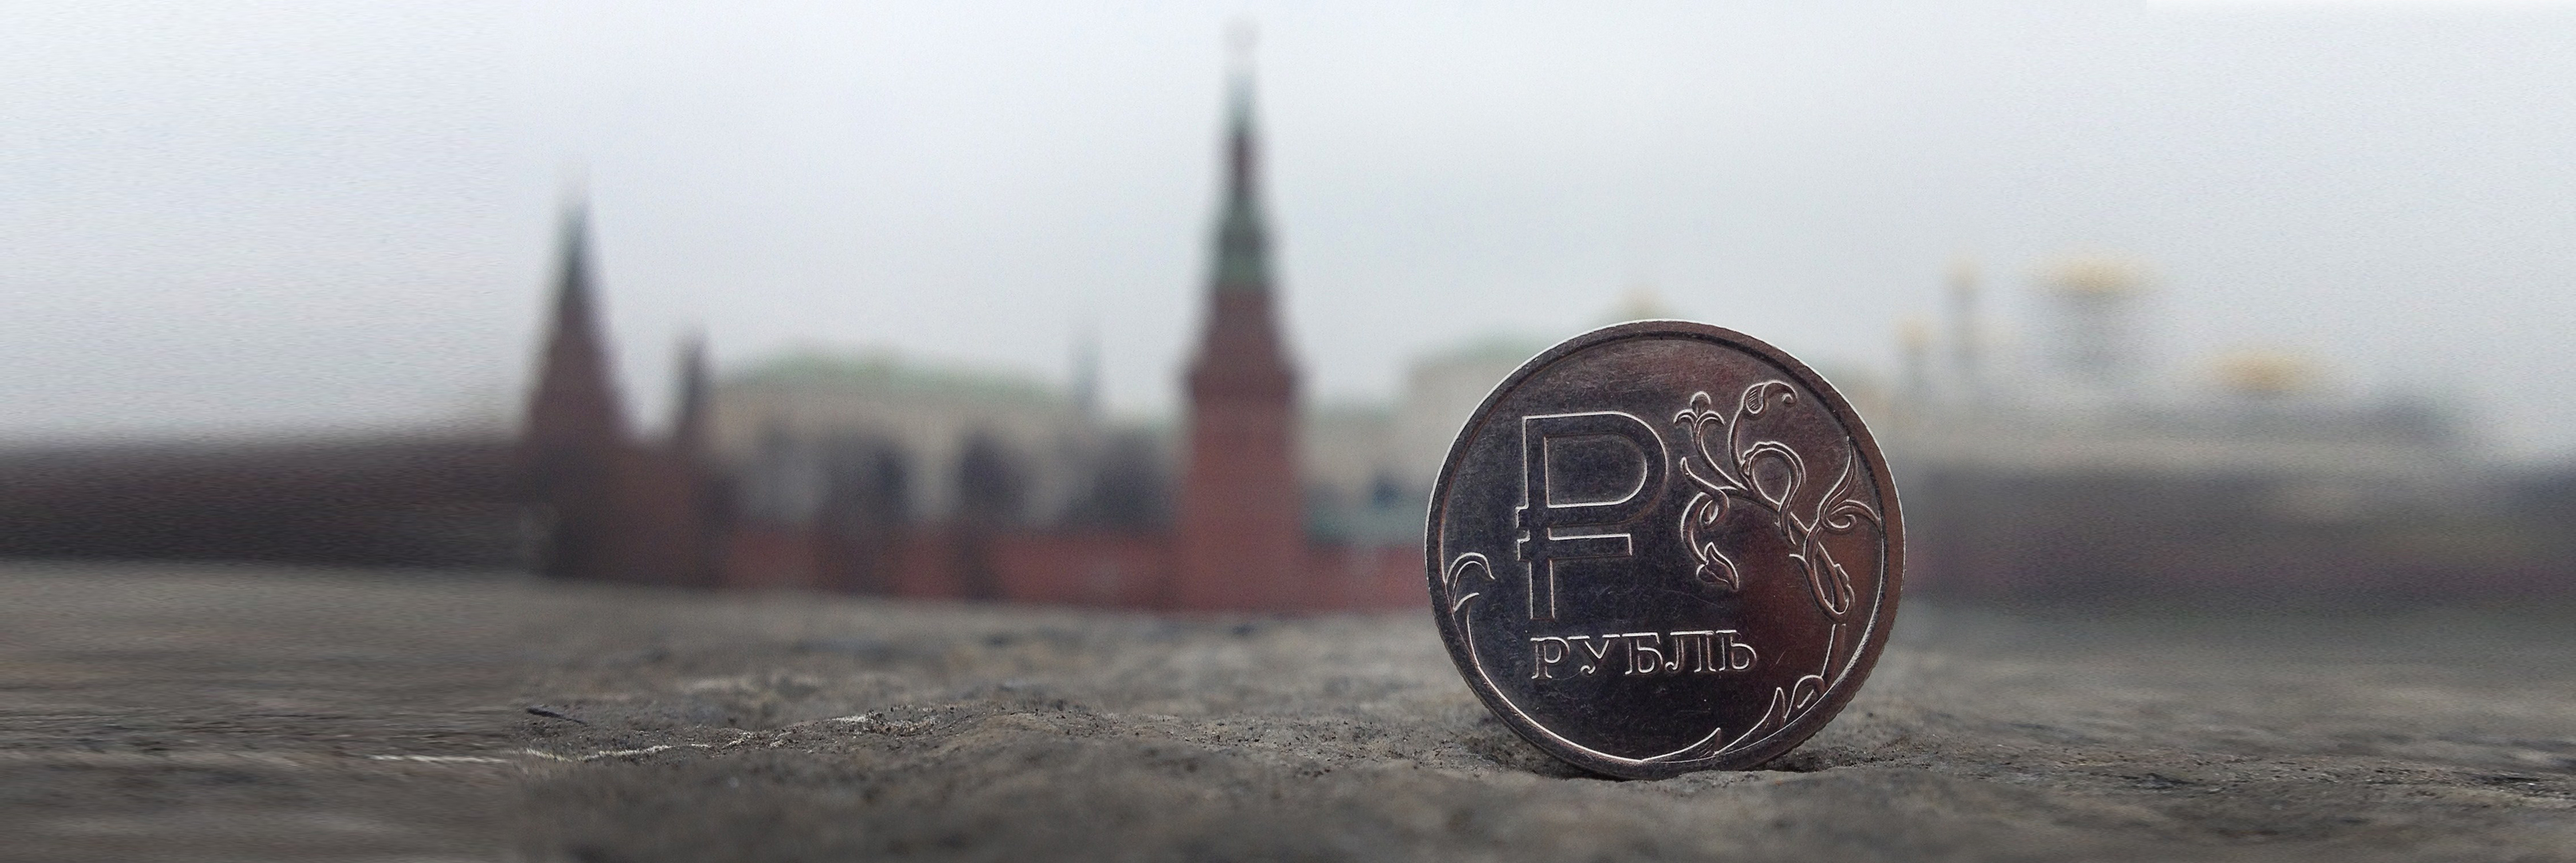
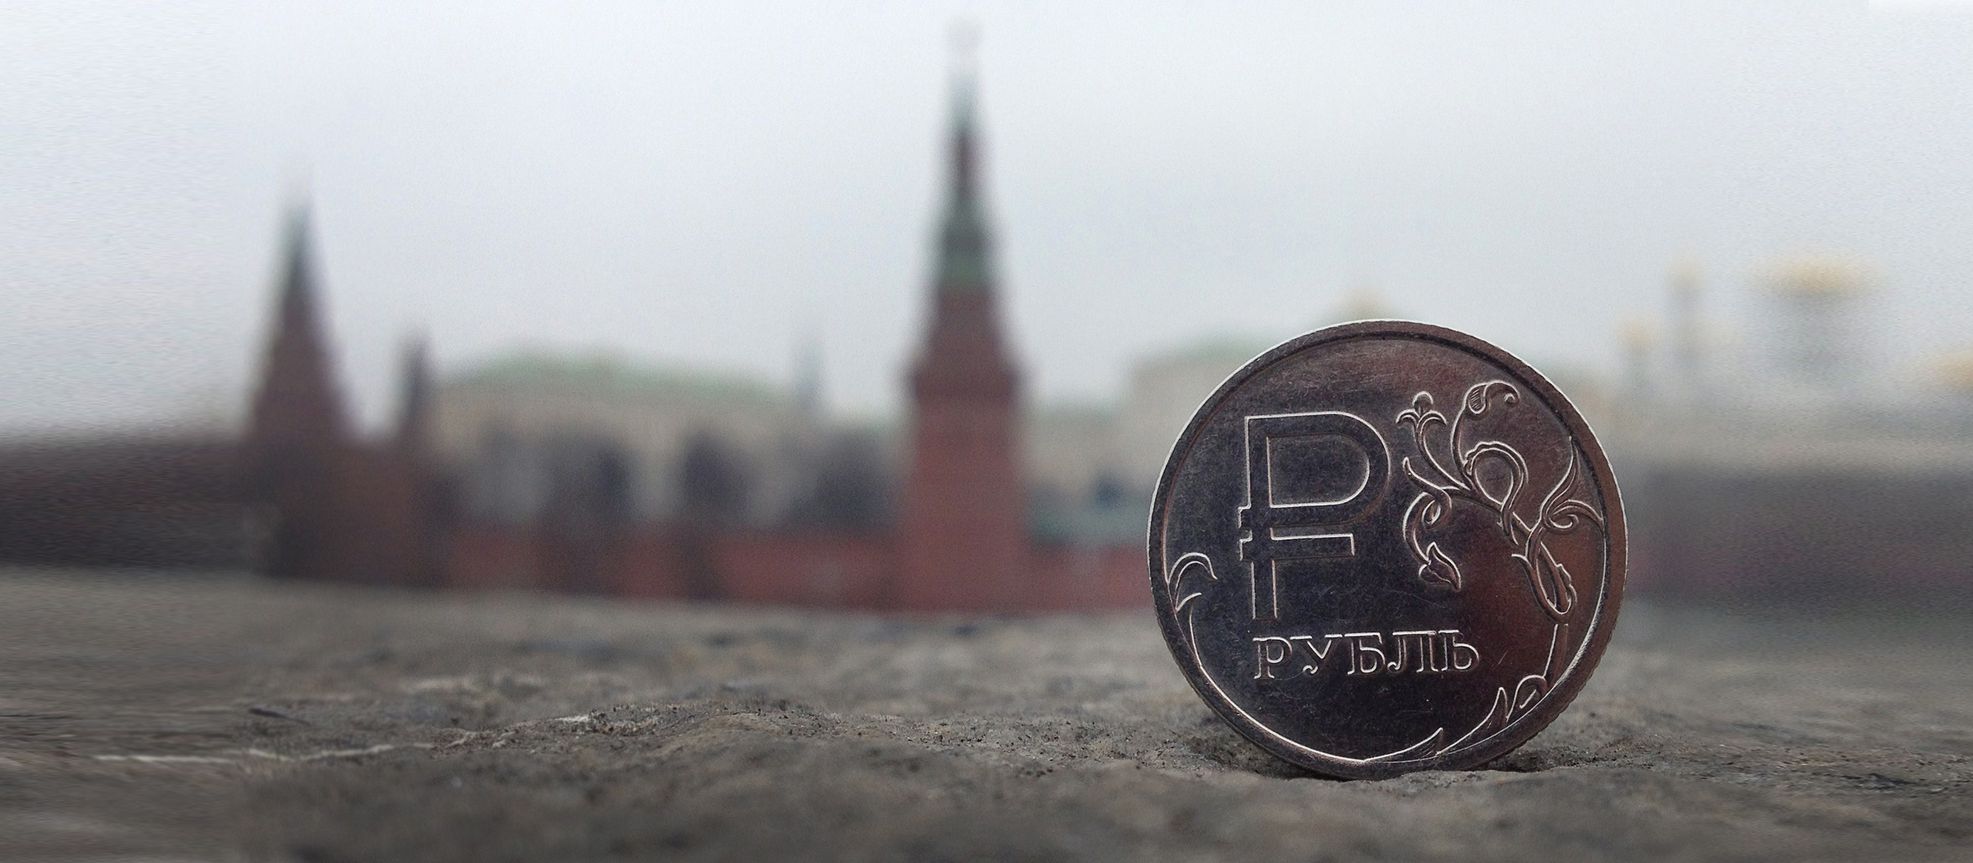
background size

diff --git a/css/style.css b/css/style.css
@@ -12,9 +12,12 @@
   display: none;
 }
 
-td:nth-child(2),
-td:nth-child(4),
-td:last-of-type {
+tr.odd td:nth-child(2),
+tr.odd td:nth-child(4),
+tr.odd td:last-of-type,
+tr.even td:nth-child(2),
+tr.even td:nth-child(4),
+tr.even td:last-of-type {
   -webkit-hyphens: auto;
   -ms-hyphens: auto;
   hyphens: auto;
@@ -69,6 +72,8 @@ header {
 header .title {
   z-index: 1;
   position: relative;
+  padding: 0 24px;
+  border-top: 4px solid #004165;
 }
 
 header h1 {
@@ -82,6 +87,14 @@ header h1 {
 header button {
   position: relative;
   bottom: 5vw;
+  border: 3px solid white;
+  color: white;
+  margin-left: 24px;
+}
+
+header button:hover {
+  background-color: #004165;
+  border: 3px solid #004165;
 }
 
 header button a:link,
@@ -89,6 +102,8 @@ header button a:hover,
 header button a:visited {
   color: #fff;
   text-decoration: none;
+  padding: 16px 18px;
+  display: block;
 }
 
 #csis {
@@ -146,6 +161,8 @@ header .anchor {
   max-width: 1080px;
   text-align: left;
   width: calc(100% - 24px);
+  padding-right: 24px;
+  box-sizing: border-box;
 }
 
 #site-info .indepth {
@@ -156,7 +173,7 @@ header .anchor {
 
 #site-info .indepth img {
   position: relative;
-  top: 3px;
+  top: 6px;
   width: 24px;
 }
 
@@ -164,9 +181,12 @@ section {
   margin: auto auto 2rem auto;
   width: calc(100% - 24px);
   max-width: 1080px;
+  padding-right: 24px;
+  box-sizing: border-box;
 }
+
 section article {
-  margin-bottom: 1.5rem;
+  margin-bottom: 2.5rem;
 }
 
 section .teaser__type {
@@ -177,18 +197,15 @@ section .teaser__type {
 
 section .teaser__title {
   font-size: 1.4rem;
-  margin: 0.2rem 0;
+  margin: 0.2rem 0 0;
   line-height: 1.3;
   color: #004165;
   font-family: expo-serif-pro, serif;
 }
 
-section .teaser__title a {
-}
-
 section .teaser__date,
 section .teaser__expert {
-  font-size: 1rem;
+  font-size: 0.9rem;
 }
 section .teaser__detail {
   line-height: 1.5;
@@ -203,9 +220,12 @@ footer {
   text-align: center;
   width: 100vw;
 }
+
 footer p {
   width: calc(100% - 24px);
   margin: 1rem auto;
+  padding-right: 24px;
+  box-sizing: border-box;
 }
 
 h1,
@@ -219,7 +239,6 @@ h2 {
 
 h1 {
   margin: 0.5em 0;
-  border-top: 4px solid #004165;
   font-size: 3em;
 }
 
@@ -254,22 +273,30 @@ h3 + * {
   font-size: 1rem;
   line-height: 1.4;
 }
+
 a:link,
 a:hover,
 a:visited {
   color: #0065a4;
+  text-decoration: none;
+  transition: all 0.2s ease-in-out;
+}
+
+#site-info a,
+footer a {
   font-weight: bold;
 }
 
 a:hover {
-  text-decoration: none;
+  text-decoration: underline;
+  color: #0a8672;
 }
 
 /*============================
 =           Filter          =
 ============================*/
 .dataTables_wrapper .dataTables_filter {
-  background-color: rgba(15, 65, 101, 0.33);
+  background-color: rgba(15, 65, 101, 0.2);
   box-sizing: border-box;
   color: #004165 !important;
   float: none !important;
@@ -330,24 +357,27 @@ button {
   cursor: pointer;
   font-family: "Source Sans Pro", sans-serif;
   font-weight: bold;
-  letter-spacing: 1px;
+  letter-spacing: 2px;
   text-align: center;
   text-transform: uppercase;
   transition: background-color 0.2s ease-in-out, color 0.2s ease-in-out,
     border 0.2s ease-in-out;
 }
 
-button:not(.view-all) {
+button {
   background-color: transparent;
-  border: 3px solid white;
-  color: white;
   margin: 24px 0 0;
-  padding: 16px 18px;
 }
 
-button:not(.view-all):hover {
-  background-color: #004165;
+button.reset {
+  padding: 16px 18px;
   border: 3px solid #004165;
+  color: #004165;
+}
+
+button.reset:hover {
+  background-color: white;
+  border: 3px solid white;
 }
 
 button.view-all {
@@ -505,6 +535,7 @@ table th:not(:first-child) {
 
 table.dataTable thead th:first-child {
   border-bottom: none;
+  min-width: 40px !important;
 }
 
 table thead select {
@@ -544,6 +575,8 @@ table.dataTable.stripe tbody tr.odd,
 table.dataTable.display tbody tr.odd {
   background-color: #f1f1f1;
 }
+table.dataTable.stripe tbody tr.even:hover,
+table.dataTable.display tbody tr.even:hover,
 table.dataTable.stripe tbody tr.odd:hover,
 table.dataTable.display tbody tr.odd:hover {
   background-color: #e1e4ea;
@@ -555,6 +588,10 @@ table tr.shown td:nth-child(1) {
 
 table tr.shown td:nth-child(n + 2) {
   background-color: rgba(15, 65, 101, 0.2) !important;
+}
+
+table tr.shown + tr > td:first-of-type {
+  background-color: rgba(255, 255, 255, 1);
 }
 
 table tr.shown + tr > td:last-of-type {
@@ -697,9 +734,15 @@ table a:visited {
     font-size: 16px;
   }
 
+  header .title > * {
+    position: relative;
+    left: -50px;
+  }
+
   button.view-all {
     margin-top: 0;
   }
+
   section .teaser__title {
     font-size: 1.2rem;
   }

diff --git a/js/sanctions.js b/js/sanctions.js
@@ -165,7 +165,7 @@ $(document).ready(function() {
               ).prependTo(".dataTables_filter");
 
               var companyInput =
-                '<input id="targeted-companies" type="text" data-list-filter="^" data-wslist="companies" class="filter companies" list="companies">';
+                '<input id="targeted-companies" type="search" data-list-filter="^" data-wslist="companies" class="filter companies" list="companies">';
 
               companyDatalist
                 .wrap("<div></div>")
@@ -179,7 +179,7 @@ $(document).ready(function() {
               ).prependTo(".dataTables_filter");
 
               var individualInput =
-                '<input for="targeted-individuals" type="text" data-list-filter="^" data-wslist="individuals" class="filter individuals" list="individuals">';
+                '<input for="targeted-individuals" type="search" data-list-filter="^" data-wslist="individuals" class="filter individuals" list="individuals">';
 
               individualDatalist
                 .wrap("<div></div>")
@@ -302,17 +302,17 @@ $(document).ready(function() {
               });
 
               searchField.addEventListener("keydown", function() {
-                filterColumns.forEach(function(fc) {
-                  return fc.search("", true, false).draw();
-                });
-
-                []
-                  .concat(
-                    _toConsumableArray(document.querySelectorAll(".filter"))
-                  )
-                  .forEach(function(f) {
-                    return (f.value = "");
-                  });
+                // filterColumns.forEach(function(fc) {
+                //   return fc.search("", true, false).draw();
+                // });
+                //
+                // []
+                //   .concat(
+                //     _toConsumableArray(document.querySelectorAll(".filter"))
+                //   )
+                //   .forEach(function(f) {
+                //     return (f.value = "");
+                //   });
 
                 $("button.view-all")
                   .removeClass("down")
@@ -321,6 +321,8 @@ $(document).ready(function() {
                   .html("Hide all");
 
                 $("table,.dataTables_info").removeClass("hide");
+
+                rerender();
               });
 
               $("tr").hover(function() {
@@ -339,7 +341,6 @@ $(document).ready(function() {
                     tr.removeClass("shown");
                   } else {
                     row.child(format(keys, row.data())).show();
-                    // debugger;
                     $(row.child()[0])
                       .find("td")
                       .attr("colspan", "7")
